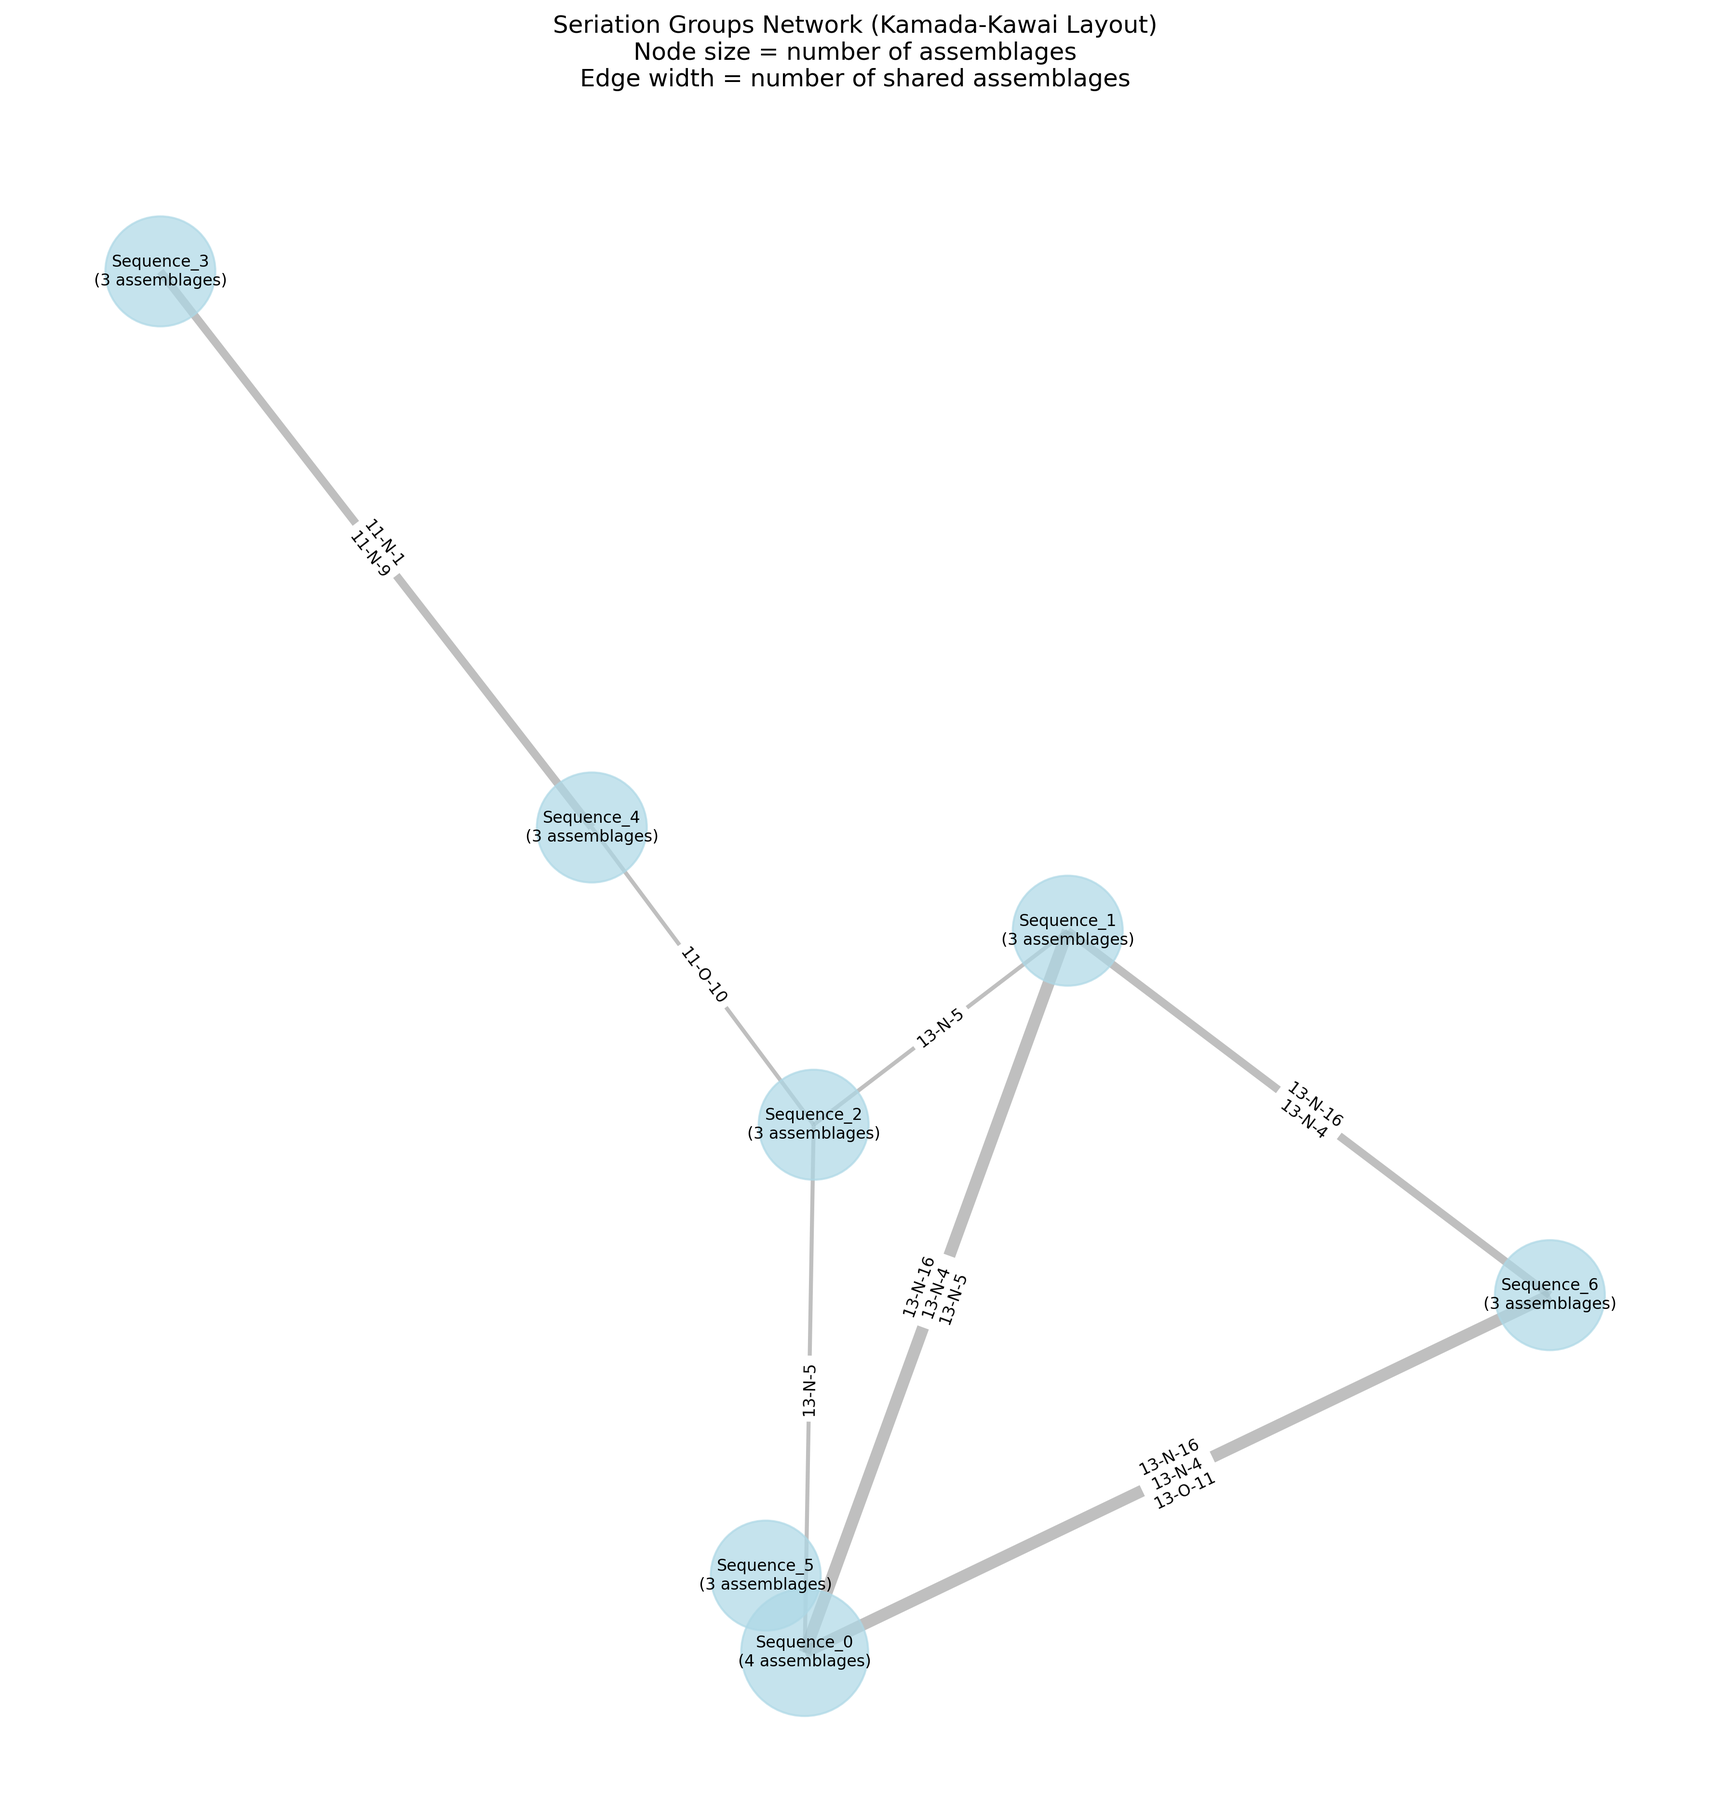
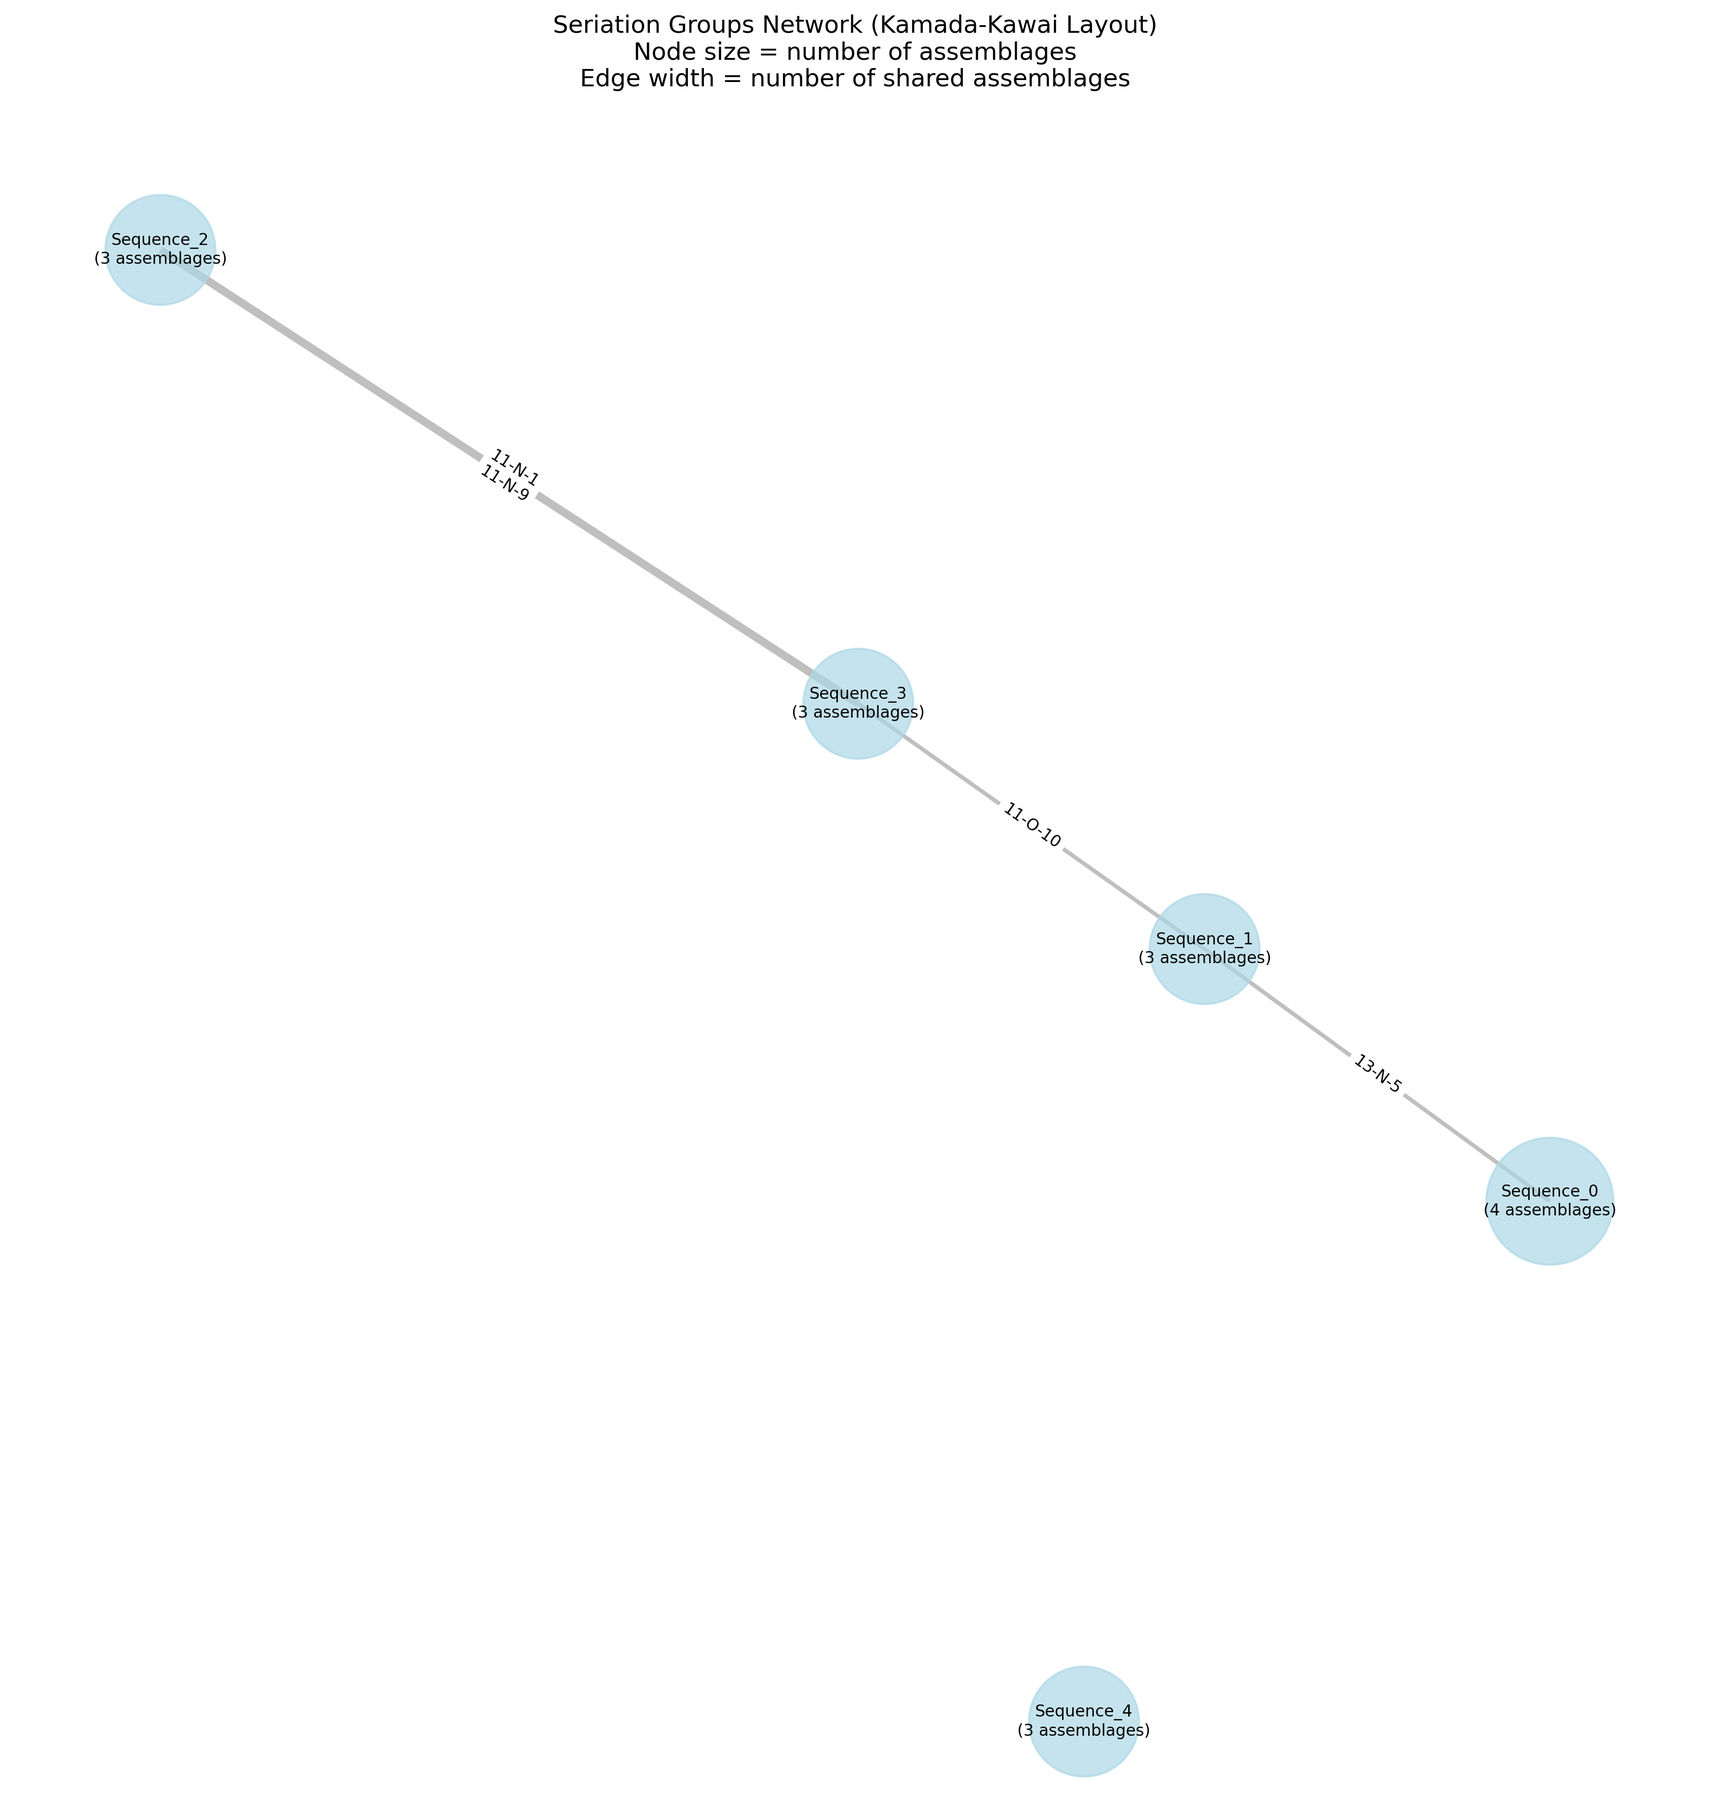
now filtered subset solutions so that we only have unique ones (i.e., not the 3 solution and the 4 solution when they overlap)

diff --git a/SeriationSolverDynamic.py b/SeriationSolverDynamic.py
@@ -182,283 +182,6 @@ class DPSeriationSolver:
         print(f"Found {len(valid_sequences)} valid sequences")
         return valid_sequences
 
-        def plot_battleship(self,
-                            assemblages: pd.DataFrame,
-                            sequence_indices: List[int],
-                            title: str = "Seriation Sequence",
-                            save_path: str = None):
-            """Create traditional battleship plot with centered bars varying in width"""
-            sequence_data = assemblages.iloc[sequence_indices]
-            totals = sequence_data.sum(axis=1)
-            proportions = sequence_data.div(totals, axis=0) * 100  # Convert to percentages
-
-            # Create figure
-            n_types = len(assemblages.columns)
-            fig_width = max(12, n_types * 2)  # Adjust width based on number of types
-            fig_height = max(8, len(sequence_indices) * 0.4)  # Adjust height based on assemblages
-            fig = plt.figure(figsize=(fig_width, fig_height))
-
-            # Get max proportion for scaling
-            max_prop = proportions.max().max()
-            bar_height = 0.6  # Fixed height for bars
-            type_positions = np.arange(n_types) * 3  # Triple spacing between types
-
-            # Create plot
-            ax = plt.gca()
-
-            # Plot bars
-            for i, (_, row) in enumerate(sequence_data.iterrows()):
-                row_props = proportions.iloc[i]
-
-                # Plot bars for each type
-                for j, (type_name, prop) in enumerate(row_props.items()):
-                    if prop > 0:  # Only plot non-zero values
-                        # Width varies with proportion, height is fixed
-                        width = prop / max_prop  # Scale width by proportion
-                        x_pos = type_positions[j]
-                        ax.bar(x=x_pos,
-                               height=bar_height,
-                               width=width,
-                               bottom=i - bar_height / 2,
-                               color='black',
-                               alpha=0.7)
-
-            # Customize plot
-            ax.set_ylim(-0.5, len(sequence_indices) - 0.5)
-            ax.set_xlim(min(type_positions) - 1.5, max(type_positions) + 1.5)
-
-            # Add labels
-            ax.set_yticks(range(len(sequence_indices)))
-            ax.set_yticklabels(sequence_data.index)
-
-            # Add type names at bottom
-            ax.set_xticks(type_positions)
-            ax.set_xticklabels(assemblages.columns, rotation=45, ha='right')
-
-            # Remove unnecessary spines
-            ax.spines['top'].set_visible(False)
-            ax.spines['right'].set_visible(False)
-
-            # Add title
-            plt.title(title)
-            plt.tight_layout()
-
-            # Save or show
-            if save_path:
-                plt.savefig(save_path, dpi=300, bbox_inches='tight')
-                plt.close()
-            else:
-                plt.show()
-
-        def plot_heatmap(self,
-                         assemblages: pd.DataFrame,
-                         sequence_indices: List[int],
-                         title: str = "Heatmap Sequence",
-                         save_path: str = None):
-            """Create heatmap visualization"""
-            plt.figure(figsize=(12, 8))
-
-            sequence_data = assemblages.iloc[sequence_indices]
-            totals = sequence_data.sum(axis=1)
-            proportions = sequence_data.div(totals, axis=0)
-
-            sns.heatmap(proportions, cmap='YlOrRd', annot=True, fmt='.3f')
-            plt.title(title)
-            plt.ylabel('Assemblages')
-            plt.xlabel('Types')
-
-            if save_path:
-                plt.savefig(save_path, dpi=300, bbox_inches='tight')
-                plt.close()
-            else:
-                plt.show()
-
-        def fit(self,
-                assemblages: pd.DataFrame,
-                output_dir: str = 'seriation_results',
-                max_cores: int = None) -> Dict[str, List[str]]:
-            """
-            Main method to find seriation solutions using parallel dynamic programming
-            """
-            # Create output directory
-            os.makedirs(output_dir, exist_ok=True)
-
-            print("Starting parallel dynamic programming seriation analysis...")
-            print(f"Data: {len(assemblages)} assemblages, {len(assemblages.columns)} types")
-
-            # Find all valid sequences
-            valid_sequences = self.find_all_valid_sequences(assemblages.values, max_cores)
-
-            # Sort sequences by length (longest first)
-            sorted_sequences = sorted(valid_sequences,
-                                      key=len,
-                                      reverse=True)
-
-            # Prepare results
-            results = {}
-            sequence_list = []
-
-            for i, sequence in enumerate(sorted_sequences):
-                sequence_names = assemblages.index[list(sequence)].tolist()
-                results[f'Sequence_{i}'] = sequence_names
-                sequence_list.append(list(sequence))
-
-                # Create visualizations
-                # Save battleship plot
-                battleship_path = os.path.join(output_dir, f'battleship_{i}.png')
-                self.plot_battleship(
-                    assemblages,
-                    list(sequence),
-                    f'Seriation Sequence {i}',
-                    save_path=battleship_path
-                )
-                print(f"Saved battleship plot to: {battleship_path}")
-
-                # Save heatmap separately
-                heatmap_path = os.path.join(output_dir, f'heatmap_{i}.png')
-                self.plot_heatmap(
-                    assemblages,
-                    list(sequence),
-                    f'Heatmap Sequence {i}',
-                    save_path=heatmap_path
-                )
-                print(f"Saved heatmap to: {heatmap_path}")
-
-            # Create combined visualization
-            print("\nCreating combined visualization...")
-            combined_path = os.path.join(output_dir, 'all_sequences.png')
-
-            try:
-                # Create figure for combined plot
-                n_sequences = len(sequence_list)
-                n_types = len(assemblages.columns)
-
-                if n_sequences > 0:
-                    # Make figure size proportional to number of sequences
-                    fig = plt.figure(figsize=(15, 4 * n_sequences))
-                    plt.suptitle("All Valid Seriation Sequences", y=1.02, fontsize=14)
-
-                    # Create subplots for each sequence
-                    for idx, sequence in enumerate(sequence_list):
-                        print(f"Adding sequence {idx + 1} to combined plot...")
-
-                        # Create subplot
-                        ax = plt.subplot(n_sequences, 1, idx + 1)
-
-                        sequence_data = assemblages.iloc[sequence]
-                        totals = sequence_data.sum(axis=1)
-                        proportions = sequence_data.div(totals, axis=0) * 100
-
-                        # Plot bars
-                        max_prop = proportions.max().max()
-                        bar_height = 0.6
-                        type_positions = np.arange(n_types) * 3
-
-                        for i, (_, row) in enumerate(sequence_data.iterrows()):
-                            row_props = proportions.iloc[i]
-                            for j, (type_name, prop) in enumerate(row_props.items()):
-                                if prop > 0:
-                                    width = 2 * (prop / max_prop)
-                                    x_pos = type_positions[j]
-                                    ax.bar(x=x_pos,
-                                           height=bar_height,
-                                           width=width,
-                                           bottom=i - bar_height / 2,
-                                           color='black',
-                                           alpha=0.7)
-
-                        # Customize subplot
-                        ax.set_ylim(-0.5, len(sequence) - 0.5)
-                        ax.set_xlim(min(type_positions) - 1.5, max(type_positions) + 1.5)
-
-                        # Add labels
-                        ax.set_yticks(range(len(sequence)))
-                        ax.set_yticklabels(sequence_data.index)
-
-                        ax.set_xticks(type_positions)
-                        if idx == len(sequence_list) - 1:
-                            ax.set_xticklabels(assemblages.columns, rotation=45, ha='right')
-                        else:
-                            ax.set_xticklabels([])
-
-                        ax.spines['top'].set_visible(False)
-                        ax.spines['right'].set_visible(False)
-                        ax.set_title(f'Sequence {idx + 1}', pad=10)
-
-                    plt.tight_layout()
-                    plt.savefig(combined_path, dpi=300, bbox_inches='tight')
-                    plt.close()
-
-                    print(f"Saved combined plot to: {combined_path}")
-
-                    # Verify file exists
-                    if os.path.exists(combined_path):
-                        print(f"Verified: Combined plot file exists at {combined_path}")
-                        print(f"File size: {os.path.getsize(combined_path)} bytes")
-                    else:
-                        print("Warning: Combined plot file was not created successfully")
-
-            except Exception as e:
-                print(f"Error creating combined visualization: {str(e)}")
-                import traceback
-                traceback.print_exc()
-
-            # Save results to text file
-            results_path = os.path.join(output_dir, 'seriation_results.txt')
-            with open(results_path, 'w') as f:
-                f.write("Seriation Analysis Results\n")
-                f.write("=========================\n\n")
-                for seq_name, assemblage_list in results.items():
-                    f.write(f"\n{seq_name}:\n")
-                    f.write("Assemblages:\n")
-                    for assemblage in assemblage_list:
-                        f.write(f"  {assemblage}\n")
-                    f.write(f"Length: {len(assemblage_list)}\n")
-
-            print(f"\nResults saved to directory: {output_dir}")
-            print(f"Found {len(results)} valid sequences")
-            return results
-
-    if __name__ == "__main__":
-        print("Starting seriation analysis...")
-
-        try:
-            # Set up argument parsing
-            parser = argparse.ArgumentParser(description='Run frequency seriation analysis.')
-            parser.add_argument('--file', type=str, help='Path to input data file (CSV, TSV, or Excel)', default=None)
-            parser.add_argument('--min_group', type=int, help='Minimum group size (default: 3)', default=3)
-            parser.add_argument('--confidence', type=float, help='Confidence level (default: 0.95)', default=0.95)
-            parser.add_argument('--bootstrap', type=int, help='Number of bootstrap iterations (default: 1000)',
-                                default=1000)
-            parser.add_argument('--output', type=str, help='Output directory (default: seriation_results)',
-                                default='seriation_results')
-            parser.add_argument('--cores', type=int, help='Number of CPU cores to use (default: all)', default=None)
-
-            args = parser.parse_args()
-
-            # Load data
-            print("Loading data...")
-            data = load_data(args.file)
-
-            # Initialize solver with command line parameters
-            solver = DPSeriationSolver(
-                min_group_size=args.min_group,
-                confidence_level=args.confidence,
-                n_bootstrap=args.bootstrap
-            )
-
-            # Find and visualize seriation groups
-            results = solver.fit(
-                data,
-                output_dir=args.output,
-                max_cores=args.cores
-            )
-
-        except Exception as e:
-            print(f"An error occurred: {str(e)}")
-            import traceback
-            traceback.print_exc()
-
     def plot_battleship(self,
                         assemblages: pd.DataFrame,
                         sequence_indices: List[int],
@@ -550,6 +273,55 @@ class DPSeriationSolver:
         else:
             plt.show()
 
+    def is_subsequence(self, smaller: List[int], larger: List[int]) -> bool:
+        """Check if one sequence is contained within another"""
+        n, m = len(smaller), len(larger)
+        if n > m:
+            return False
+
+        # Check if smaller sequence appears as a contiguous subsequence in larger
+        for i in range(m - n + 1):
+            if larger[i:i + n] == list(smaller):
+                return True
+        return False
+
+    def filter_maximal_sequences(self, sequences: Set[Tuple[int]]) -> List[Tuple[int]]:
+        """
+        Filter sequences to keep only maximal ones.
+        Removes sequences that are subsequences of larger sequences.
+        """
+        # Convert to list and sort by length (descending)
+        sorted_sequences = sorted(sequences, key=len, reverse=True)
+
+        if not sorted_sequences:
+            return []
+
+        # Keep track of which sequences to retain
+        keep_sequences = [True] * len(sorted_sequences)
+
+        print("\nFiltering for maximal sequences...")
+
+        # Compare each sequence with larger ones
+        for i in range(len(sorted_sequences)):
+            if not keep_sequences[i]:
+                continue
+
+            current_seq = list(sorted_sequences[i])
+
+            # Compare with each larger sequence
+            for j in range(i):
+                if keep_sequences[j] and self.is_subsequence(current_seq, list(sorted_sequences[j])):
+                    keep_sequences[i] = False
+                    print(
+                        f"  Removing sequence of length {len(current_seq)} - contained within sequence of length {len(sorted_sequences[j])}")
+                    break
+
+        # Keep only non-subsequence sequences
+        maximal_sequences = [seq for i, seq in enumerate(sorted_sequences) if keep_sequences[i]]
+
+        print(f"\nReduced from {len(sorted_sequences)} to {len(maximal_sequences)} maximal sequences")
+        return maximal_sequences
+
     def fit(self,
             assemblages: pd.DataFrame,
             output_dir: str = 'seriation_results',
@@ -566,19 +338,20 @@ class DPSeriationSolver:
         # Find all valid sequences
         valid_sequences = self.find_all_valid_sequences(assemblages.values, max_cores)
 
-        # Sort sequences by length (longest first)
-        sorted_sequences = sorted(valid_sequences,
-                                  key=len,
-                                  reverse=True)
+        # Filter to keep only maximal sequences
+        maximal_sequences = self.filter_maximal_sequences(valid_sequences)
 
         # Prepare results
         results = {}
         sequence_list = []
 
-        for i, sequence in enumerate(sorted_sequences):
+        for i, sequence in enumerate(maximal_sequences):
             sequence_names = assemblages.index[list(sequence)].tolist()
             results[f'Sequence_{i}'] = sequence_names
             sequence_list.append(list(sequence))
+
+            print(f"\nSequence_{i} (length {len(sequence)}):")
+            print("  " + " -> ".join(sequence_names))
 
             # Create visualizations
             # Save battleship plot
